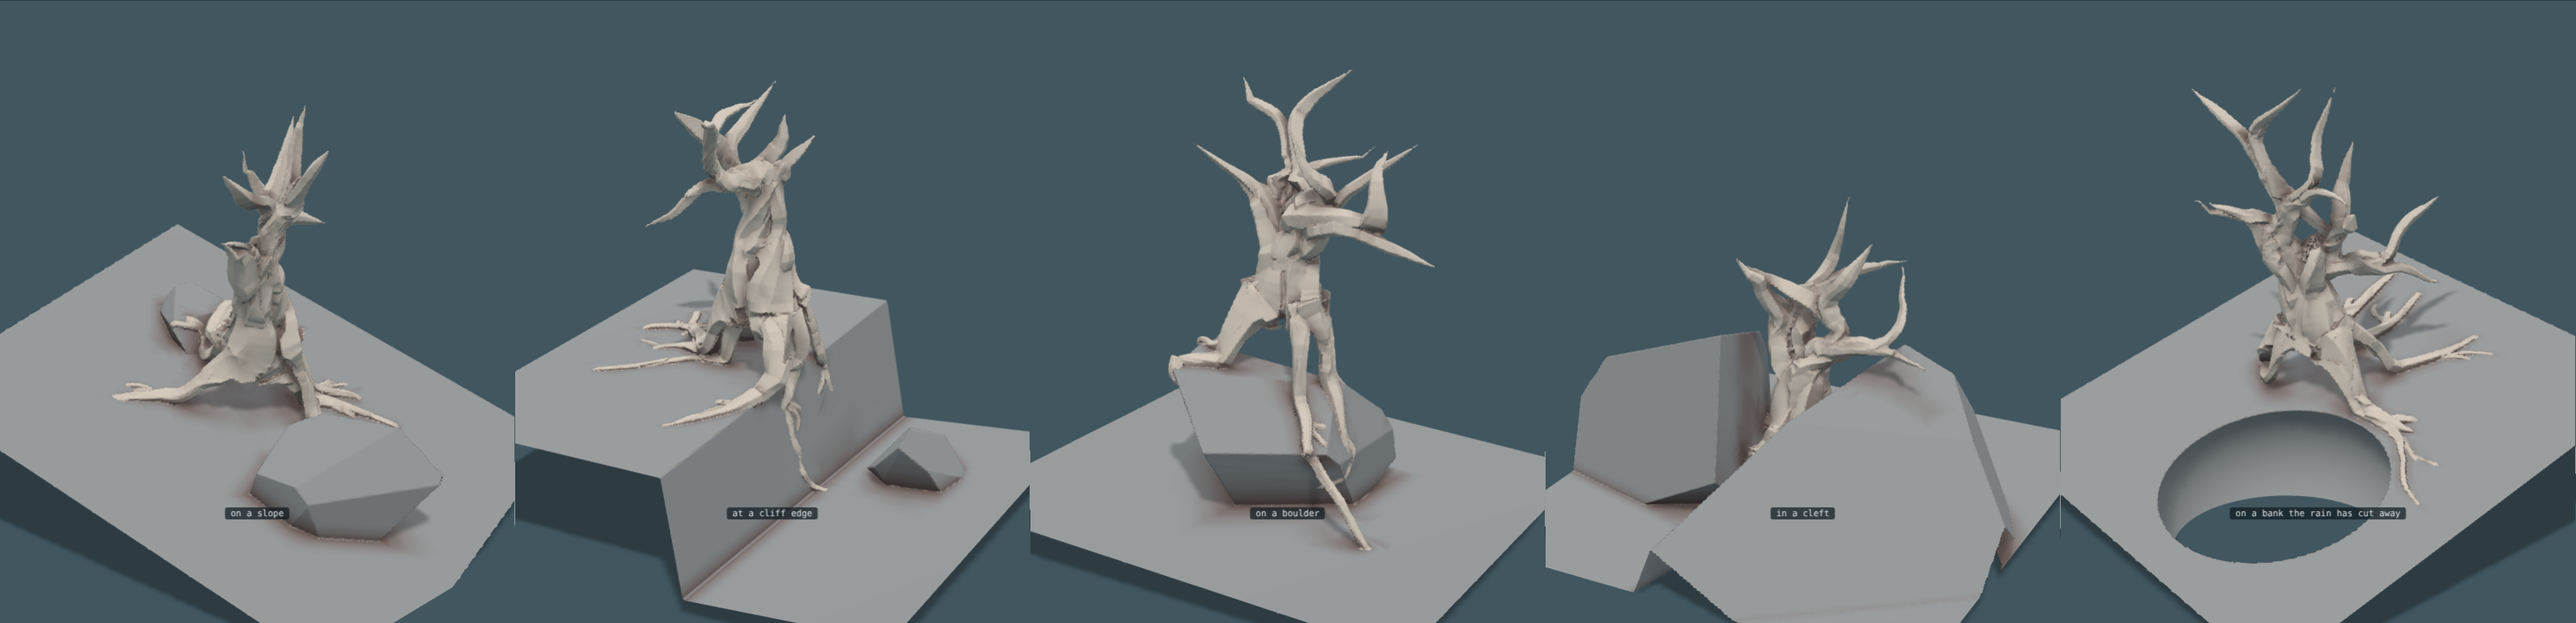
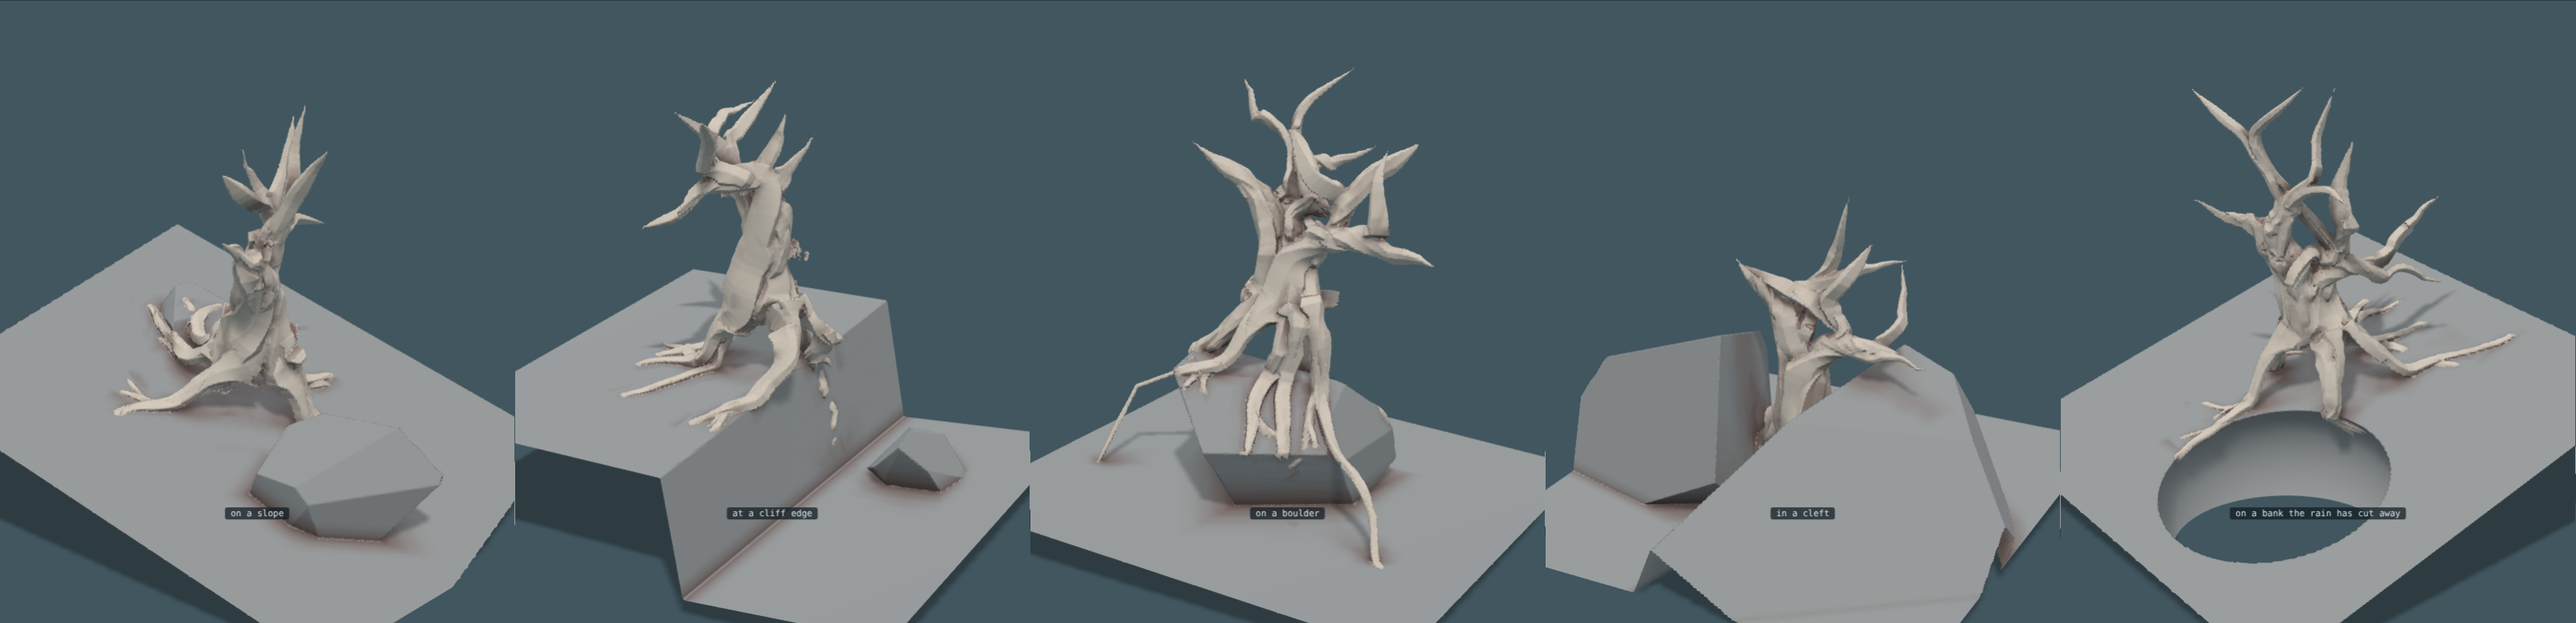
A root that goes over an edge turns back into the rock at its end; the ground walk gets its own stream of numbers
Claude-Session: https://claude.ai/code/session_0192rgp75jGkttZXf7hEakip

diff --git a/trees.js b/trees.js
@@ -58,13 +58,18 @@
     //   not go into the ground runs out to a point. A root that parted off another has no collar of its own.
     // Going down a face or through the air counts little toward its length, so a root that leaves the level it
     // began on runs on until it has ground under it again.
-    const walk = G ? (p0, away, rho0, len, dives, collar) => { const rb2 = r, rx = [], rr = [], c0 = G(p0[0], p0[1], p0[2]), most = Math.round(len / ds) * 5, kmax = ds / (2.6 * Math.max(0.025, rho0)), wob = TAU * r(), wl = 0.25 + 0.3 * r();
+    // How a root behaves on ground is drawn from a stream of its own, one per root. It was drawn from the tree's
+    // stream, so every new thing asked of a root on ground moved every draw after it and the level-ground trees
+    // changed although no rule of theirs had. They are their own question and they get their own numbers.
+    let walkN = 0;
+    const walk = G ? (p0, away, rho0, len, dives, collar) => { const rw = rng(P.seed * 7919 + (walkN++) * 104729), rb2 = r, rx = [], rr = [], c0 = G(p0[0], p0[1], p0[2]), most = Math.round(len / ds) * 5, kmax = ds / (2.6 * Math.max(0.025, rho0)), wob = TAU * rw(), wl = 0.25 + 0.3 * rw();
       // Whether this root is one that will go over an edge at all. Most turn and run along the lip, where the
       // soil is; a `bold` one commits to the face, and once on it braces rather than hangs. A rule that tells
       // every root the same thing gives either a cliff no root will touch or a cliff every root pours down.
-      const bold = r() < P.bold ? 0.12 : 1;
-      let braceWay = r() < 0.5 ? 1 : -1, braceLeft = 0;
-      const steepness = 0.55 + 0.9 * r();   // no two legs come down alike: one drops, the next runs out shallow
+      const bold = rw() < P.bold ? 0.12 : 1;
+      const hookAt = 0.5 + 0.38 * rw();
+      let braceWay = rw() < 0.5 ? 1 : -1, braceLeft = 0, hooked = 0;
+      const steepness = 0.55 + 0.9 * rw();   // no two legs come down alike: one drops, the next runs out shallow
       let pos = p0, h = away, prog = 0, curl = 0, air = 0, gone = 0;
       // A root does not taper away along its length: it keeps its weight between forks and steps down at each,
       // which is where nearly all of its thinning happens. Along a run it loses only `waste`. What it does at the
@@ -72,7 +77,7 @@
       // `flare`, under half a trunk's width. (A long smooth cone from trunk to tip is a carrot, not a root.)
       const girth = (g, far) => rho0 * (collar ? P.grip * (1 + (P.collar - 1) * Math.pow(Math.max(0, 1 - far / P.flare), 1.6)) : 1) * (1 - P.waste * g) * (dives ? 1 : Math.pow(Math.min(1, (1 - g) / 0.22), 0.7) * 0.9 + 0.1);
       const room = (pr, own) => { if (Math.abs(pr[0]) > 0.97 || Math.abs(pr[2]) > 0.97) return 0; let near = 0.22; for (const q of rootPts) near = Math.min(near, H(pr[0] - q[0], pr[1] - q[1], pr[2] - q[2])); for (let e = 0; e < own; e++) near = Math.min(near, H(pr[0] - rx[e][0], pr[1] - rx[e][1], pr[2] - rx[e][2])); return near; };
-      for (let m = 1; m <= most && prog < len; m++) { const g = Math.min(1, prog / len), rad = girth(g, gone), nn = gradG(pos[0], pos[1], pos[2]), hug = rad * (0.4 + 0.22 * Math.sin(wob + TAU * gone / wl)) - rad * P.bite * Math.max(0, 1 - Math.abs(nn[1]) - 0.45) / 0.3 * Math.max(0, Math.sin(wob * 2 + TAU * gone / (wl * 0.55))), want = c0 + (hug - c0) * sstep(0, P.dive + P.slant * steepness * Math.max(0, c0), gone) - (dives ? 0.3 * sstep(0.72, 1, g) : 0);
+      for (let m = 1; m <= most && prog < len; m++) { const g = Math.min(1, prog / len), rad = girth(g, gone), nn = gradG(pos[0], pos[1], pos[2]), hug = rad * (0.4 + 0.22 * Math.sin(wob + TAU * gone / wl)) - rad * P.bite * Math.max(0, 1 - Math.abs(nn[1]) - 0.45) / 0.3 * Math.max(hooked, Math.max(0, Math.sin(wob * 2 + TAU * gone / (wl * 0.55)))), want = c0 + (hug - c0) * sstep(0, P.dive + P.slant * steepness * Math.max(0, c0), gone) - (dives ? 0.3 * sstep(0.72, 1, g) : 0);
         let tt = h.map((v, k) => v - nn[k] * dot(h, nn)); const dn = UP.map((v, k) => -(v - nn[k] * nn[1])), dl = H(dn[0], dn[1], dn[2]); if (H(tt[0], tt[1], tt[2]) < 0.2) tt = dl > 1e-6 ? dn : cross(nn, [1, 0, 0]); tt = unit(tt);
         curl = Math.max(-kmax, Math.min(kmax, curl * 0.9 + P.snake * 0.34 * kmax * (2 * r() - 1))); { const sd = cross(nn, tt); tt = unit(tt.map((v, k) => v * Math.cos(curl) + sd[k] * Math.sin(curl))); }
         // On a face it cannot lie on, a root does not hang down it: it braces. It works across the fall line in
@@ -81,7 +86,11 @@
         const onFace = Math.max(0, Math.min(1, (1 - Math.abs(nn[1]) - 0.45) / 0.3));
         if (onFace > 0.5) { if (braceLeft <= 0) { braceWay = -braceWay; braceLeft = Math.max(2, Math.round(P.brace * (0.6 + 0.9 * r()) / ds)); } braceLeft--; } else braceLeft = 0;
         const fall = dl > 1e-6 ? dn.map((v) => v / dl) : [0, -1, 0], acr = unit(cross(nn, fall).map((v) => v * braceWay));
-        const grip = unit([0, 1, 2].map((k) => acr[k] * 0.62 + fall[k] * 0.62));
+                // The hook. A root that has gone over an edge does not simply stop where its length runs out: its last
+        // stretch (from `hookAt` of its length, different for every root) turns back up the face and presses into it, so it ends clawed under the rock rather than
+        // dangling off it. (This is the whole of "revert back into the cliff": the end is where it shows.)
+        const hook = onFace > 0.5 ? Math.max(0, Math.min(1, (g - hookAt) / 0.16)) : 0;
+        const grip = unit([0, 1, 2].map((k) => acr[k] * (0.62 - 0.3 * hook) + fall[k] * 0.62 * (1 - 2.1 * hook)));
         const side = cross(nn, tt), out = unit([pos[0] - trunk[0][0], 0, pos[2] - trunk[0][2]]); let best = null;   // (out: away from the foot. A root goes somewhere; it does not come back under the tree.)
         // A root wants ground it can lie in, so it keeps off a face it would only hang on. Without this, downhill
         // is rewarded without limit and a cliff is irresistible: every root on that side goes over the lip and
@@ -114,7 +123,7 @@
         if (Math.abs(nx[0]) > 0.92 || Math.abs(nx[2]) > 0.92) break;   // a root stays on the ground it was given
         // coming down to the ground counts little toward its length. Going down a face is not free any more: it was,
         // and a root that went over a lip then ran on to the bottom of the cliff however far that was.
-        const coming = G(nx[0], nx[1], nx[2]) > 3 * rad, working = onFace > 0.5 && bold < 1; prog += ds * (coming ? 0.3 : working ? 0.5 : 1); gone += H(nx[0] - pos[0], nx[1] - pos[1], nx[2] - pos[2]); pos = nx; rx.push(nx); rr.push(rad); }   // (gone is real distance: counted as ds while the step also drops, the descent comes out far steeper than `slant` asks)
+        hooked = hook; const coming = G(nx[0], nx[1], nx[2]) > 3 * rad, working = onFace > 0.5 && bold < 1; prog += ds * (coming ? 0.3 : working ? 0.5 : 1); gone += H(nx[0] - pos[0], nx[1] - pos[1], nx[2] - pos[2]); pos = nx; rx.push(nx); rr.push(rad); }   // (gone is real distance: counted as ds while the step also drops, the descent comes out far steeper than `slant` asks)
       return { rx, rr }; } : null;
     // every strand has a place in the bundle's section, and a girth of its own (mixed: most thin, a few heavy)
     const S = Array.from({ length: n }, (_, j) => { const d = Math.sqrt((j + 0.5) / n), a = j * GA + 0.5 * (r() - 0.5); return { a: d * Math.cos(a), b: d * Math.sin(a), fat: P.mixed ? 0.35 + 1.9 * Math.pow(r(), 2.5) : 1 + P.uneven * (r() - 0.5), limb: -1, give: r() < P.giving ? 1 : 0.25 * r() }; });

diff --git a/LOG.md b/LOG.md
@@ -3449,3 +3449,38 @@ Wrong, or not there:
   roots along the edge like a hem.
 - Bold is drawn per root and nothing about the tree or the place changes
   how many are bold.
+
+## The hook
+
+Given a drawing: a tree on a block, roots running out over the top and
+draping off both edges, and the one that goes down the face turning back
+against the rock at its end. The end is where it shows.
+
+A root that has gone over an edge no longer simply stops where its length
+runs out. From `hookAt` of its length, different for every root (0.5 to
+0.88, so they do not all turn at the same depth), its heading turns back
+up the face, and the bite holds hard the whole way, so it ends clawed
+into the rock rather than dangling off it. That is the whole of "revert
+back into the cliff": a J, not a hair.
+
+`sketch/page11.png`, `-other-side`, `-foot`. At the cliff several roots
+go over the lip, at different depths, and each turns back against the
+face. On the boulder one goes right under the stone and takes hold on its
+underside. (`sketch/page9.png`, `-foot`, `-from-above` remade.)
+
+And a thing about the work itself. Every new question asked of a root on
+ground — is it bold, where does it hook, how steeply does it come down —
+was drawn from the tree's own stream of numbers, so each one moved every
+draw after it, and the level-ground trees changed although no rule of
+theirs had. Twice I remade their pictures for nothing. A root's behaviour
+on ground is now drawn from a stream of its own, one per root, seeded
+from the tree's seed and the root's number. Page 7 had been safe only by
+accident: it has no ground, so the walk never runs and never draws.
+
+Wrong, or not there:
+- A root that bites into the rock still does not do anything there. It is
+  a wave in its depth, not a crack it found and went into.
+- Nothing prefers the lip, where a cliff-edge tree runs its heaviest
+  roots along the edge like a hem.
+- How many roots are bold is a fixed share; nothing about the tree or the
+  place changes it.
